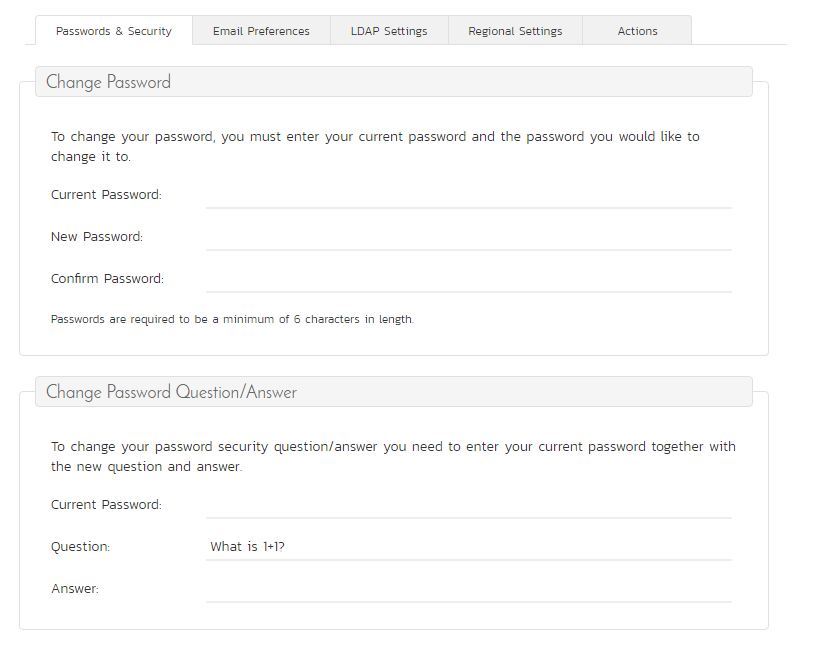
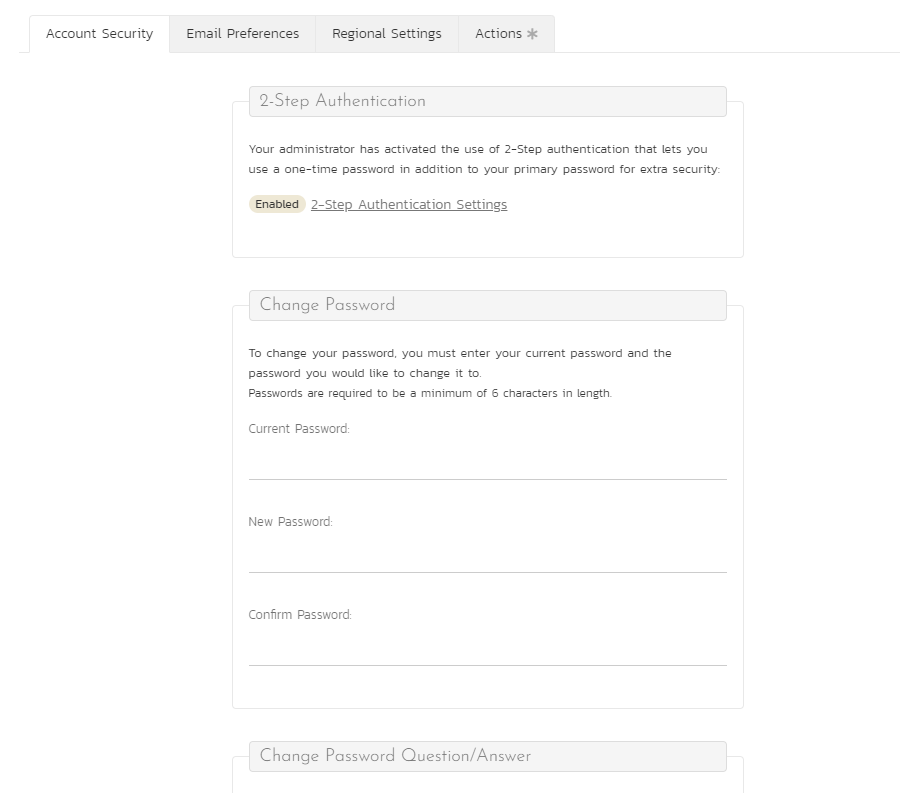
adds mfa documentation

diff --git a/docs/Spira-Administration-Guide/System.md b/docs/Spira-Administration-Guide/System.md
@@ -84,28 +84,36 @@ The "Security Settings" administration page lets you specify the various securit
 
 The following settings can be changed within the system, once you are satisfied, click the "Save" button to commit the changes:
 
-**Allow User Registration** -- Set this to "Yes" if you want to allow users to self-register for SpiraPlan accounts (that you can subsequently approve). If you set this to "No", a system administrator will need to create all user accounts. Also set this to "No" if you plan on using LDAP-based authentication.
+**Allow User Registration**: Set this to "Yes" if you want to allow users to self-register for SpiraPlan accounts (that you can subsequently approve). If you set this to "No", a system administrator will need to create all user accounts. Also set this to "No" if you plan on using LDAP-based authentication.
 
-**Maximum \# Invalid Password Attempts** -- Set this to the number of times a user can enter an incorrect password before their account is temporarily locked out. This is important in preventing 'brute force'
+**Maximum # Invalid Password Attempts**: Set this to the number of times a user can enter an incorrect password before their account is temporarily locked out. This is important in preventing 'brute force'
 password hacking attempts.
 
-**Minimum Required Password Length** -- Set this to the minimum length of passwords in the system. Choosing a longer password will make it harder for an unauthorized user to crack a password and gain entry into the system.
+**Minimum Required Password Length**: Set this to the minimum length of passwords in the system. Choosing a longer password will make it harder for an unauthorized user to crack a password and gain entry into the system.
 
 **Minimum Required Special Characters** - Set this to the minimum number of non-alphanumeric characters that will be required for passwords in the system. Choosing more required special characters will make it harder for an unauthorized user to crack a password and gain entry into the system.
 
-**Password Attempt Time Window** -- Set this to the duration (in minutes) after which a user's account will be automatically unlocked (due to repeated incorrect password attempts).
+**Password Attempt Time Window**: Set this to the duration (in minutes) after which a user's account will be automatically unlocked (due to repeated incorrect password attempts).
 
-**Password Change Interval --** If set to a value, it will require all password to be changed after the specified number of days.
+**Password Change Interval**: If set to a value, it will require all password to be changed after the specified number of days.
 
-**Require Password Change on First Login --** Enabling this requires all new users to change their password on first login.
+**Require Password Change on First Login**: Enabling this requires all new users to change their password on first login.
 
-**Disallow Names in Passwords --** If enabled, passwords cannot contain the user's real name and/or username.
+**Disallow Names in Passwords**: If enabled, passwords cannot contain the user's real name and/or username.
 
-**Authentication Expiration** -- This specifies the amount of time (in minutes) after which a user will be logged out due to inactivity when they login without choosing the 'Keep Me Logged-In' option.
+**Enable 2-Step Authentication**: If enabled (the default), users can add a one-time password to their profile in addition to their primary password for added security. This feature is available to users who authenticate using the application's username and password system, or with LDAP. Users who authenticate with an external provider can not use SpiraPlan's 2-step authentication. Users can manage their one-time passwords on their [User Profile](../../Spira-User-Manual/User-Product-Management/#2-step-authentication). Administrators can remove a one-time password for a user from [Edit User](../System-Users/#edit-an-existing-user) page. 
+{: #enable-2-step-authentication}
 
-**Keep Me Logged-In Expiration** - This specifies the amount of time (in minutes) after which a user will be logged out due to inactivity if they have chosen to login with the 'Keep Me Logged-In' option. This should normally be longer than the previous setting.
+!!! hint "2-Step Authentication tips"
+    - Once enabled, users with a one-time password must enter it on each login to access the system.
+    - If the global security setting is ever disabled, user with a one-time password will immediately not need to provide that password to login.
+    - If installing on-premise, the web server must have the correct time. Any minor deviation from the correct time will mean users' one-time passwords will not be in sync with the server and they will not be able to login. 
 
-**Allowed Domains -** This should contain the list of other web domains that are allowed to make CORS (cross-origin) REST API calls to this instance. You can specify a comma separated list of base URLs (e.g. https://www.domain1.com, http://www.domain2.com) or an asterisk (\*) to denote all domains are allowed (not recommended).
+**Authentication Expiration**: This specifies the amount of time (in minutes) after which a user will be logged out due to inactivity when they login without choosing the 'Keep Me Logged-In' option.
+
+**Keep Me Logged-In Expiration**: This specifies the amount of time (in minutes) after which a user will be logged out due to inactivity if they have chosen to login with the 'Keep Me Logged-In' option. This should normally be longer than the previous setting.
+
+**Allowed Domains**: This should contain the list of other web domains that are allowed to make CORS (cross-origin) REST API calls to this instance. You can specify a comma separated list of base URLs (e.g. https://www.domain1.com, http://www.domain2.com) or an asterisk (\*) to denote all domains are allowed (not recommended).
 
 
 ## TaraVault®

diff --git a/docs/Spira-User-Manual/User-Product-Management.md b/docs/Spira-User-Manual/User-Product-Management.md
@@ -11,6 +11,10 @@ Upon entering the SpiraPlan® URL provided by your system administrator into you
 
 You need to enter your given user-name and password into the system in the appropriate boxes then click the ***Log In*** button to gain access to the application. Normally you only remain logged in to the application whilst in active use, and you will be asked to log-in again after either closing the browser or 20 minutes of inactivity. To prevent this, and to stay logged-in to SpiraPlan® regardless of browser window closing or inactivity, select the "Keep me logged in" check-box before clicking the ***Log In*** button. Note that this setting is specific to each individual computer you are logging-in from, and that it will be reset when you explicitly log-out with the [log-out link](#global-navigation).
 
+If you have enabled [2-step authentication](#2-step-authentication) once you have entered your username and password correctly you will need to enter a valid one-time password.
+
+![](img/UserProduct_Management_enter-mfa.png)
+
 If for any reason you are unable to login with the provided username/password combination, and error message will be displayed. If you cannot remember the correct log-in information, click on the "Forgot your password" link and your password will be emailed to the email address currently on file. The reset password screen is illustrated below:
 
 ![](img/UserProduct_Management_34.png)
@@ -387,19 +391,33 @@ You can change your start page to be any of the following:
 
 
 ## Account Security
-
-In addition to being able to update your user information, you can optionally change your password at the same time. To change your password, on the Change Password tab fill in the three boxes with your current password, and your new password repeated for verification. Then when the "***Save***" button is clicked, the system will update your password, otherwise you will simply get a warning message indicating what needs to be corrected.
-
 ![](img/UserProduct_Management_78.png)
+
+In addition to being able to update your user information, you can also change your password. To change your password, on the Account Security tab, fill in the three fields in the Change Password box with your current password, and new password repeated for verification. Click "Save". If the password fields were not correctly filled in, you will see a warning message at the top of the page.
 
 You can also change the current password retrieval question and answer by entering in your current password (for security reasons) as well as the new password question and answer.
 
-Note: If your SpiraTest user profile is linked to an account stored in an external LDAP server, you may find the change password option is disabled. This is because the system uses the password held in the external server. To change the password in this case, please contact your system administrator who will be able to help you change the password in your LDAP environment.
+Note: If your SpiraPlan user profile is linked to an account stored in an external LDAP server, the change password option is disabled. This is because the system uses the password held in the external server. To change the password in this case, please contact your system administrator who will be able to help you change the password in your LDAP environment.
 
-#### LDAP Information
+### 2-Step Authentication
+2-Step Authentication lets you make sure on logging you have to enter your password and also a one-time password for added security. The 2-Step Authentication box on the Account Security tab:
+
+- tells you if 2-step authentication is currently enabled for your account
+- contains a link for setting up and managing 2-step authentication on your profile
+- is not visible if the system administrator has disabled this feature for your organization 
+
+Click on the link in the box to 2-Step Authentication Settings Page. If not yet enabled , the page will walk you through adding 2-step authentication. If already enabled, the page will let you remove the authentication or update it. 
+
+![](img/UserProduct_Management_mfa-add-page.png)
+
+To add or update your one-time password you need to scan the QR code into a suitable 2-step authentication app. These are available across device types (desktops, smartphones, tablets). For example, apps like Google Authenticator and 1Password can readily scan the QR code. 
+
+Once scanned, enter in the six digit code in your authenticator app within its thirty second window onto the page and click "Submit." 
+
+### LDAP Information
 If your account authenticates using LDAP, this tab will show you information about the configured LDAP options for your account. This is for reference only.
 
-#### Login Provider
+### Login Provider
 If your account authenticates using an external provider (like Google or Okta), this tab will show you information about which provider you are using.
 
 ![Account Security tab when using a login provider](img/UserProduct_Management_oauth-myprofile-page.png)
@@ -407,6 +425,7 @@ If your account authenticates using an external provider (like Google or Okta), 
 Click the `Unlink Account` button to stop using the external provider. The popup will make you enter new security information. You will use this, along with your username, to login to SpiraPlan, once the unlinking process is complete
 
 ![Unlink from a login provider](img/UserProduct_Management_oauth-myprofile-unlink.png)
+
 
 ## Email Preferences
 

diff --git a/docs/Spira-Administration-Guide/System-Users.md b/docs/Spira-Administration-Guide/System-Users.md
@@ -15,6 +15,7 @@ This screen displays the list of users in the system (by default it only shows a
 - administrative permission status
 - Department
 - Organization
+- 2-step authentication status
 - Which, if any, external login provider they are using (LDAP, or a login provider like Google or Okta)
 - active status
 
@@ -47,7 +48,21 @@ In a similar way, to edit the details of an existing user, click the "Edit" hype
 
 ![](img/System_Users_46.png)
 
-On this screen you can edit the first name, middle initial, last name, username, email address, portfolio viewer status (SpiraPlan only - this setting also controls the enterprise homepage access), system administration status, report administrator status, and active status. You can also change the user's password (if the user is managed by SpiraPlan).
+On this screen you can edit key information and security about the user:
+
+- first name
+- middle initial
+- last name
+- username
+- email address
+- portfolio viewer status (SpiraPlan only - this setting also controls the enterprise homepage access)
+- system administration status
+- report administrator status
+- active status
+- password (if the user is managed by SpiraPlan)
+- secret question and answer (if the user is managed by SpiraPlan)
+- LDAP connection (if managed by LDAP - see below)
+- 2-step authentication (if active for a user, admins can click the "Deactivate" button to deactivate this feature for the specific user)
 
 If your Spira accounts are managed by an external LDAP directory server, you can edit a user's LDAP information on this page. In LDAP-Managed mode you enter the fully Distinguished Name (DN) for that user in your corporate LDAP server and provide no password. SpiraPlan® will then query your corporate LDAP server for the password information, reducing the number of passwords that a user needs to remember. Please see the sections on [Importing LDAP Users](#importing-ldap-users) and [LDAP Configuration](../System/#ldap-configuration) for more details.
 
@@ -59,15 +74,16 @@ Once you have made the necessary changes, click the "Save" button to commit them
 
 At the top of the page you can also see information relating to the activity of the user on the system, such as when they last logged in.
 
-In addition, there are three tabs that allow you to add/remove the user from products, update the data-mapping used when synchronizing artifacts that are assigned or created by the current user, and, where relevant, specify whether the user can access the linked TaraVault™ source code management service.
+In addition, there are three tabs that allow you to:
+- add/remove the user from products
+- update the data-mapping used when synchronizing artifacts that are assigned or created by the current user
+- where relevant, specify whether the user can access the linked TaraVault™ source code management service
 
 If you click on the "Product Membership" tab you will be shown a list of products that the user is currently a member of:
 
 ![](img/System_Users_47.png)
 
-You can change the role that the user has on the various products, by choosing the appropriate role from the drop-down list and then clicking
-\[Save\]. To remove the user from a product, select its checkbox and then click \[Delete\]. To add a user to a new product, click on the
-\[Add\] button and then choose the product and associated role from the list of products on the screen that is displayed:
+You can change the role that the user has on the various products, by choosing the appropriate role from the drop-down list and then clicking \[Save\]. To remove the user from a product, select its checkbox and then click \[Delete\]. To add a user to a new product, click on the \[Add\] button and then choose the product and associated role from the list of products on the screen that is displayed:
 
 ![](img/System_Users_48.png)
 

diff --git a/docs/About/release-notes-v6.md b/docs/About/release-notes-v6.md
@@ -3,9 +3,9 @@
 ## Version 6.11 (August 2021)
 
 !!! info "Summary"
-    **Multi-Factor Authentication** (MFA) support for all users to improve security. Users can add a one-time password to Spira from within the application. Admins can monitor and manage one-time passwords.
+    **Multi-Factor Authentication** (MFA) support for all users to improve security. Users can [add a one-time password](../../Spira-User-Manual/User-Product-Management/#2-step-authentication) to Spira from within the application. Admins can [enable/disable](../../Spira-Administration-Guide/System/#enable-2-step-authentication), [monitor](../../Spira-Administration-Guide/System-Users/#view-edit-users), and [manage](../../Spira-Administration-Guide/System-Users/#edit-an-existing-user) one-time passwords.
 
-    **Create and edit a wider array of diagrams** live from within the application. This includes mindmaps, org charts, and general diagrams to meet all of your needs. Like all documents in the application, diagrams are versioned, have beautiful previews, can be downloaded, and can be controlled with robust workflows.
+    **Create and edit a [wide array of diagrams](../../Spira-User-Manual/Document-Management/#add-new-inline-documents)** live from within the application. This includes mindmaps, org charts, and general diagrams to meet all of your needs. Like all documents in the application, diagrams are versioned, have beautiful previews, can be downloaded, and can be controlled with robust workflows.
 
     [Edit requirements inline](../../Spira-User-Manual/Requirements-Management/#mindmap-inline-editing) on the requirements mind-map page in a new popup. View full details about each requirement without leaving the mindmap, or edit and save changes right there. [IN:6570]
 
